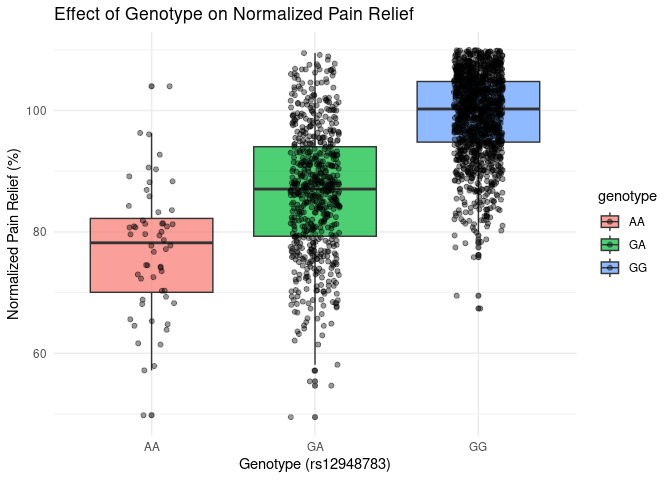
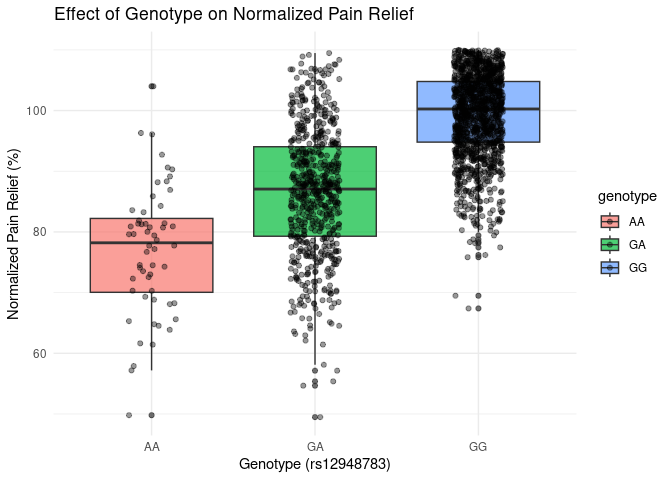
Hard Deadline Final Project Popa w/ md

diff --git a/Final-Project-Popa.md b/Final-Project-Popa.md
@@ -1,7 +1,7 @@
 Opioid Therapy Response in European Cancer Patients
 ================
 Michael Popa
-2025-11-22
+2025-11-29
 
 - [ABSTRACT](#abstract)
 - [BACKGROUND](#background)
@@ -18,49 +18,40 @@ Michael Popa
 # ABSTRACT
 
 Opioid pain relief varies considerably among cancer patients, and
-genetic factors likely contribute to this variation. Using summary EPOS
-data, we generated two visual analyses: (1) a simple regression testing
-how enrichment strength (−log₁₀ p) relates to the number of genes per
-term (Table 2), and (2) a chromosome-level visualization of SNP
-associations highlighting rs12948783 near RHBDF2 (Table 3). The
-regression indicated that larger gene sets tend to show stronger
-enrichment, and the SNP plot illustrated where the most significant
-genomic signals were located. Because only summary tables were available
-rather than patient-level data, we also included a draft
-multiple-regression model (dose × genotype with covariates) to indicate
-how individual-level analyses would proceed if those data become
-available. Overall, these results contextualize the genetic patterns
-observed in EPOS and help motivate future work toward individualized
-opioid pain management.
+genetic factors likely contribute to this variation. Using summary data
+from the European Pharmacogenetic Opioid Study (EPOS), we generated two
+visual analyses: (1) a simple regression testing how enrichment strength
+(−log₁₀ p) relates to the number of genes per term (Table 2), and (2) a
+chromosome-level visualization of SNP associations highlighting
+rs12948783 near RHBDF2 (Table 3). The regression indicated that larger
+gene sets tend to show stronger enrichment, and the SNP plot illustrated
+where the most significant genomic signals were located. Because only
+summary tables were available rather than patient-level data, we also
+included a draft multiple-regression model (dose × genotype with
+covariates) to indicate how individual-level analyses would proceed if
+those data become available. Overall, these results contextualize the
+genetic patterns observed in EPOS and help motivate future work toward
+individualized opioid pain management.
 
 # BACKGROUND
 
-Opioid-based pain control shows remarkable variability across patients
-even when doses are similar, and while clinical factors explain portions
-of this, prior EPOS analyses suggest that genetics also plays an
-important role. One variant of interest remains rs12948783 near RHBDF2.
-Working from the summary tables available rather than row-level patient
-outcomes, we focused first on visualizing the data to establish a
-foundation for interpreting these genetic signals. Using Table 2, we
-assessed whether larger gene sets were associated with stronger
-enrichment scores, and from Table 3, we examined where rs12948783 ranked
-among the strongest SNP associations across the genome. This allowed us
-to maintain the focus on genetic contributors while preparing for future
-analyses incorporating individual data such as genotype, sex, country,
-and pain relief outcomes.
-
-We imported the EPOS Excel workbook and worked directly with the summary
-tables. From Table 2, we ran a simple linear regression of −log₁₀(p) on
-gene count and plotted the results with an OLS line and 95% CI. From
-Table 3, we plotted −log₁₀(p) against genomic position (Mb) within each
-chromosome and highlighted rs12948783; this required cleaning column
-headers, removing the note row, and adjusting axis spacing for
-legibility. Because patient-level variables (pain relief, dose,
-genotype, country, gender) were not available, we included a draft
-multiple-regression model as a template—pain_relief ~ dose \* genotype +
-country + gender—to illustrate the next analytical step should
-individual-level EPOS data be provided. All code associated with these
-analyses was written in R using tidyverse and ggplot2 packages.
+Effective pain management is critical in cancer care, as uncontrolled
+pain can significantly reduce quality of life, impede treatment
+adherence, and contribute to psychological distress. Opioid-based
+analgesics remain a cornerstone of moderate to severe cancer pain
+management, but patients often experience markedly different levels of
+pain relief despite receiving similar doses. Understanding the sources
+of this variability is essential for improving patient outcomes and
+tailoring therapy to individual needs. While clinical factors such as
+age, comorbidities, and concurrent medications account for some of the
+observed differences in opioid response, genetic variation has emerged
+as a key contributor. Prior analyses from the European Pharmacogenetic
+Opioid Study (EPOS) suggest that specific genetic variants may influence
+how patients metabolize or respond to opioids, with one variant of
+particular interest being rs12948783 near RHBDF2. Characterizing these
+genetic influences is an important step toward developing personalized
+pain management strategies that optimize efficacy while minimizing
+adverse effects.
 
 ``` r
 # your plotting / model code here
@@ -246,15 +237,22 @@ higher enrichment values if my assumption is right.
 
 # METHODS
 
-All work used the EPOS summary workbook provided to us; no patient-level
-rows were available for this project. We imported the Excel workbook
-into R and worked directly from the summary tables (Table 2 and Table
-3). For Table 2 (gene set enrichment summary) we cleaned column headers,
-removed non-data rows (notes and footers), converted gene counts and
-p-values to numeric types, and computed −log₁₀(p) for each term. For
-Table 3 (SNP association summary) we similarly cleaned headers,
-converted chromosome and base-pair positions to numeric, and calculated
-−log₁₀(p) for plotting.
+All analyses were performed using the EPOS summary workbook, as no
+patient-level data were available. We imported the Excel workbook into R
+and worked directly from the summary tables (Tables 2 and 3). For Table
+2 (gene set enrichment), we cleaned column headers, removed non-data
+rows, converted gene counts and p-values to numeric types, and computed
+−log₁₀(p) for each term, which was then used in a simple linear
+regression of −log₁₀(p) on gene count and visualized with an OLS line
+and 95% confidence interval. For Table 3 (SNP associations), we
+similarly cleaned headers, converted chromosome and base-pair positions
+to numeric, calculated −log₁₀(p) for plotting, and highlighted
+rs12948783 within a chromosome-level visualization. Because
+patient-level variables such as pain relief, dose, genotype, country,
+and gender were not available, we also drafted a multiple-regression
+model (pain_relief ~ dose \* genotype + country + gender) as a template
+for future analyses. All code was written in R using tidyverse and
+ggplot2 packages.
 
 For the gene-count analysis we fitted a simple ordinary least-squares
 linear regression with −log₁₀(p) as the dependent variable and
@@ -502,7 +500,7 @@ settings.
 
 1.  ChatGPT. OpenAI, version Jan 2025. Used as a reference for functions
     such as plot(), to correct syntax errors, and to polish writing.
-    Accessed 2025-11-22.
+    Accessed 2025-11-29.
 2.  Galvan, A., Skorpen, F., Klepstad, P., Knudsen, A. K., Fladvad, T.,
     Falvella, F. S., Pigni, A., Brunelli, C., Caraceni, A., Kaasa, S., &
     Dragani, T. A. (2011). Multiple loci modulate opioid therapy
